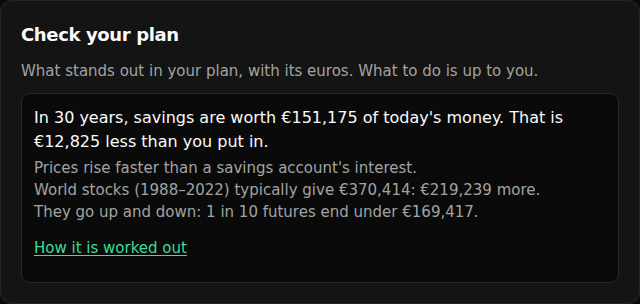
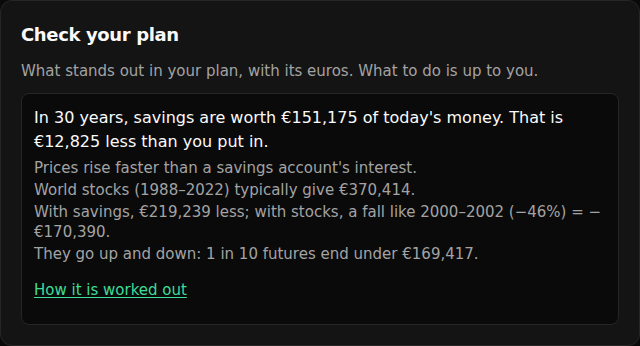
Check your plan: both sides of savings in one sentence
Against world stocks, savings give up euros, and stocks can fall: the
sentence says both, with world stocks' worst fall in the data
(2000–2002, −46% after rising prices, the deepest crash "Test my plan"
runs through) on the money they typically reach: "With savings,
€219,239 less; with stocks, a fall like 2000–2002 (−46%) = −€170,390."
The euros come from the percent and the figure as shown. How it works
and the research sheet say so; the wording test checks it in both
languages.

Claude-Session: https://claude.ai/code/session_01BcV4Bj22BrAC8vej9vmEnb

diff --git a/projects/wealth-lens/src/lib/plan-check.ts b/projects/wealth-lens/src/lib/plan-check.ts
@@ -9,7 +9,8 @@
  * - concentration: one stock over a fifth of the mix the plan invests in,
  *   or of My portfolio (index funds aside): its euros and its worst fall;
  * - savings: a savings account for 10 years or more: what it keeps in
- *   today's euros, against what was put in and against world stocks.
+ *   today's euros, against what was put in and against world stocks, with
+ *   both sides of them: what savings give up, and their worst fall.
  *
  * Numbers only; the words are in i18n/check-text.ts. It informs: it never
  * says what to buy, what to sell or what weights to choose (research/
@@ -19,6 +20,7 @@
 import type { AssetId } from "./assets";
 import type { Calculation, CalculatorPlan, GoalStatus } from "./calculator";
 import { futureValueWithContributions, holdingValue } from "./finance";
+import { CRISES, crisisResults } from "./history-test";
 import { resolveInvestment } from "./investment";
 import { INDEX_TRACKERS, instrumentForHolding, MARKET, type PricesFile } from "./market-data";
 import { CONCENTRATION_LIMIT, mixStock } from "./mix";
@@ -78,8 +80,19 @@ export interface SavingsCheck {
   /** What the savings account keeps after the years, in today's euros (the big number). */
   total: number;
   putIn: number;
-  /** World stocks with the same amounts: the typical result and the one 1 in 10 futures end below. */
-  world: { typical: number; bad: number; rate: number; period: [number, number] | null };
+  /**
+   * World stocks with the same amounts: the typical result, the one 1 in 10
+   * futures end below, and their worst fall in the data (its share, and its
+   * first and last calendar years).
+   */
+  world: { typical: number; bad: number; rate: number; period: [number, number] | null; fall: WorstFall | null };
+}
+
+export interface WorstFall {
+  /** 0.46 = −46%, after rising prices. */
+  drop: number;
+  from: number;
+  to: number;
 }
 
 export type PlanCheck = HorizonCheck | ConcentrationCheck | SavingsCheck;
@@ -166,6 +179,22 @@ export function concentrationCheck(calc: Calculation, holdings: readonly Holding
   };
 }
 
+let worldFall: WorstFall | null | undefined;
+
+/** World stocks' worst fall in the data: the deepest of the crashes "Test my plan" runs through (lib/history-test.ts). */
+export function worstWorldFall(): WorstFall | null {
+  if (worldFall !== undefined) return worldFall;
+  const results = Object.values(crisisResults({ parts: [{ asset: WORLD_REFERENCE, weight: 1 }], rebalance: true, savingsReturn: 0 }, { start: 1, monthly: 0 }, 1));
+  let worst: WorstFall | null = null;
+  for (const result of results) {
+    const crisis = result && CRISES.find((entry) => entry.id === result.id);
+    if (!result?.fall || !crisis || (worst && result.fall.drop <= worst.drop)) continue;
+    worst = { drop: result.fall.drop, from: crisis.year, to: crisis.year + crisis.years - 1 };
+  }
+  worldFall = worst;
+  return worst;
+}
+
 /** A savings account for many years: what it keeps, and what world stocks gave with the same amounts. */
 export function savingsCheck(calc: Calculation, plan: Pick<CalculatorPlan, "pricesOf" | "assumptions">): SavingsCheck | null {
   const { investment, scenario, result } = calc;
@@ -183,6 +212,7 @@ export function savingsCheck(calc: Calculation, plan: Pick<CalculatorPlan, "pric
       bad: bandsFor(world, amounts).p10[amounts.years],
       rate: world.realReturn,
       period: world.period,
+      fall: worstWorldFall(),
     },
   };
 }

diff --git a/projects/wealth-lens/src/lib/plan-check.test.ts b/projects/wealth-lens/src/lib/plan-check.test.ts
@@ -136,6 +136,9 @@ describe("savings for a long time", () => {
     expect(check?.world.typical).toBeCloseTo(futureValueWithContributions(10_000, 200, INDEXES.world.averageReturn, 30), 6);
     expect(check?.world.period).toEqual([1988, 2022]);
     expect(check!.world.bad).toBeLessThan(check!.world.typical);
+    // Their worst fall in the data, the one "Test my plan" shows: 2000–2002, −46% after rising prices.
+    expect(check?.world.fall).toMatchObject({ from: 2000, to: 2002 });
+    expect(check!.world.fall!.drop).toBeCloseTo(0.4618, 4);
   });
 
   it("says nothing under 10 years, or for anything but savings", () => {
@@ -200,10 +203,19 @@ describe("Check your plan", () => {
 
   it("subtracts the euros as they are shown, so the sums on the page add up", () => {
     // €370,414.60 and €151,175.40 show as €370,415 and €151,175: the gap shown is €219,240, not €219,239.
-    const check: PlanCheck = { id: "savings", years: 30, total: 151_175.4, putIn: 164_000, world: { typical: 370_414.6, bad: 169_417, rate: 0.045, period: [1988, 2022] } };
+    const check: PlanCheck = {
+      id: "savings",
+      years: 30,
+      total: 151_175.4,
+      putIn: 164_000,
+      world: { typical: 370_414.6, bad: 169_417, rate: 0.045, period: [1988, 2022], fall: { drop: 0.4618, from: 2000, to: 2002 } },
+    };
     const { lead, details } = checkWords(check, EN);
     expect(lead).toEqual(["In 30 years, savings are worth €151,175 of today's money.", "That is €12,825 less than you put in."]);
-    expect(details).toContain("World stocks (1988–2022) typically give €370,415: €219,240 more.");
+    expect(details).toContain("World stocks (1988–2022) typically give €370,415.");
+    // Both sides in one sentence: what savings give up, and the worst fall world stocks had, on the same plan's money (46% of €370,415).
+    expect(details).toContain("With savings, €219,240 less; with stocks, a fall like 2000–2002 (−46%) = −€170,391.");
+    expect(checkWords(check, ES).details).toContain("Con Ahorro, 219.240\u00a0€ menos; con acciones, caer como en 2000–2002 (\u221246\u00a0%) = \u2212170.391\u00a0€.");
   });
 
   it("gives the last 12 months as where its euros came from, so the percent can be checked by eye", () => {

diff --git a/projects/wealth-lens/src/i18n/messages/es.ts b/projects/wealth-lens/src/i18n/messages/es.ts
@@ -122,7 +122,7 @@ export const es: Messages = {
           "Bajo el resultado, hasta tres observaciones, solo cuando aplican. Cada una con sus euros. Dicen lo que hay, nunca qué hacer.",
           "Pocos años: los años de tu plan, o una meta, a menos de 5 años, con dinero que sube y baja. Cuenta cuántos de los 1000 futuros posibles acaban por debajo de lo que pones hasta entonces. Sale desde 1 de cada 10. [El método](research:wealth-lens/chequeo.md#horizonte-frente-a-riesgo).",
           "Una acción: una empresa con más de un quinto de tu mezcla o de Mi cartera, sin contar los fondos indexados. Da sus euros y su peor caída desde un máximo, sobre tu dinero. [El método](research:wealth-lens/chequeo.md#concentración).",
-          "Ahorro durante 10 años o más: lo que conserva la cuenta en dinero de hoy, frente a lo que pones. Y frente a las acciones del mundo, con las mismas cantidades. [El método](research:wealth-lens/chequeo.md#ahorro-a-largo-plazo).",
+          "Ahorro durante 10 años o más: lo que conserva la cuenta en dinero de hoy, frente a lo que pones. Y frente a las acciones del mundo, con las mismas cantidades: lo que se deja de ganar y su peor caída. [El método](research:wealth-lens/chequeo.md#ahorro-a-largo-plazo).",
         ],
       },
       {
@@ -1104,7 +1104,8 @@ export const es: Messages = {
       less: (amount: string) => `Son ${amount} menos de lo que pones.`,
       more: (amount: string) => `Son ${amount} más de lo que pones.`,
       why: "Los precios suben más que el interés del ahorro.",
-      world: (period: string, typical: string, more: string) => `Las acciones del mundo (${period}) suelen dar ${typical}: ${more} más.`,
+      world: (period: string, typical: string) => `Las acciones del mundo (${period}) suelen dar ${typical}.`,
+      bothSides: (less: string, years: string, fall: string, amount: string) => `Con Ahorro, ${less} menos; con acciones, caer como en ${years} (${fall}) = ${amount}.`,
       worldBad: (bad: string) => `Suben y bajan: 1 de cada 10 futuros acaba por debajo de ${bad}.`,
     },
   },

diff --git a/projects/wealth-lens/src/i18n/messages/en.ts b/projects/wealth-lens/src/i18n/messages/en.ts
@@ -126,7 +126,7 @@ export const en = {
           "Under the result, up to three observations, only when they apply. Each has its euros. They say what is, never what to do.",
           "Few years: your plan's years, or a goal, under 5 years away, and money that goes up and down. It counts how many of the 1,000 possible futures end below what you put in by then. It shows from 1 in 10. [The method](research:wealth-lens/chequeo.md#horizonte-frente-a-riesgo).",
           "One stock: one company over a fifth of your mix or of My portfolio, index funds aside. It gives its euros and its worst fall from a peak, on your money. [The method](research:wealth-lens/chequeo.md#concentración).",
-          "Savings for 10 years or more: what the account keeps in today's money, against what you put in. And against world stocks, with the same amounts. [The method](research:wealth-lens/chequeo.md#ahorro-a-largo-plazo).",
+          "Savings for 10 years or more: what the account keeps in today's money, against what you put in. And against world stocks, with the same amounts: what it gives up, and their worst fall. [The method](research:wealth-lens/chequeo.md#ahorro-a-largo-plazo).",
         ],
       },
       {
@@ -1136,7 +1136,8 @@ export const en = {
       less: (amount: string) => `That is ${amount} less than you put in.`,
       more: (amount: string) => `That is ${amount} more than you put in.`,
       why: "Prices rise faster than a savings account's interest.",
-      world: (period: string, typical: string, more: string) => `World stocks (${period}) typically give ${typical}: ${more} more.`,
+      world: (period: string, typical: string) => `World stocks (${period}) typically give ${typical}.`,
+      bothSides: (less: string, years: string, fall: string, amount: string) => `With savings, ${less} less; with stocks, a fall like ${years} (${fall}) = ${amount}.`,
       worldBad: (bad: string) => `They go up and down: 1 in 10 futures end under ${bad}.`,
     },
   },

diff --git a/projects/wealth-lens/src/i18n/check-text.ts b/projects/wealth-lens/src/i18n/check-text.ts
@@ -51,9 +51,13 @@ export function checkWords(check: PlanCheck, i18n: I18n): CheckWords {
       const [total, putIn, typical] = [check.total, check.putIn, check.world.typical].map(Math.round);
       const { world } = check;
       const lead = [t.keeps(m.units.years(check.years), f.eur(total)), total < putIn ? t.less(f.eur(putIn - total)) : t.more(f.eur(total - putIn))];
+      // Both sides in one sentence: what savings give up, and world stocks' worst fall on the money they typically reach.
+      const drop = world.fall ? Math.round(world.fall.drop * 100) / 100 : null;
+      const years = world.fall ? (world.fall.from === world.fall.to ? String(world.fall.from) : `${world.fall.from}–${world.fall.to}`) : "";
       const details = [
         ...(total < putIn ? [t.why] : []),
-        t.world(periodText(world), f.eur(typical), f.eur(typical - total)),
+        t.world(periodText(world), f.eur(typical)),
+        ...(world.fall && drop !== null && typical > total ? [t.bothSides(f.eur(typical - total), years, f.percent(-drop, { decimals: 0 }), f.eur(-typical * drop, { signed: true }))] : []),
         t.worldBad(f.eur(world.bad)),
       ];
       return { lead, details };

diff --git a/research/wealth-lens/chequeo.md b/research/wealth-lens/chequeo.md
@@ -99,7 +99,9 @@ y con su índice en su lugar sigue en *Para tener en cuenta*.
 **En palabras:** una cuenta de ahorro no sube ni baja, pero con los años
 los precios suben más que su interés. La app dice cuánto vale lo ahorrado
 en euros de hoy, frente a lo puesto y frente a lo que habrían dado las
-acciones del mundo con las mismas cantidades, con su caso malo.
+acciones del mundo con las mismas cantidades. Las dos caras van en la
+misma frase: lo que el ahorro deja de ganar y la peor caída de las
+acciones en los datos sobre ese dinero. Después, su caso malo.
 
 **Cuándo:** el plan invierte en Ahorro y mira 10 años o más.
 
@@ -108,12 +110,18 @@ menos la inflación de "Subida de precios en", ver
 [inflación](inflacion.md)); la referencia es el índice Mundo (MSCI World,
 1988–2022) con sus cifras de siempre y la misma inflación, con el mismo
 cálculo del número grande (típico) y su percentil 10 de los futuros
-simulados (malo).
+simulados (malo). La peor caída es la mayor de las crisis de *Probar mi
+plan* que cubren los datos del Mundo: 2000–2002, −46 % después de la
+subida de precios (de fin de 1999 a fin de 2002; 2008 fue −41 %). Se
+aplica a lo que dan típicamente al final, cuando más dinero hay: lo más
+que puede quitar una caída así. Como en todo el chequeo, los euros salen
+del porcentaje y de la cifra tal como se ven (46 % de 185.207 €).
 
 **Ejemplo:** 10.000 € y 200 € al mes durante 30 años: "En 30 años, el
 ahorro vale 75.587 € de hoy. Son 6413 € menos de lo que pones. Las
-acciones del mundo (1988–2022) suelen dar 185.207 €: 109.620 € más. Suben
-y bajan: 1 de cada 10 futuros acaba por debajo de 84.709 €."
+acciones del mundo (1988–2022) suelen dar 185.207 €. Con Ahorro, 109.620 €
+menos; con acciones, caer como en 2000–2002 (−46 %) = −85.195 €. Suben y
+bajan: 1 de cada 10 futuros acaba por debajo de 84.709 €."
 
 ## Cómo se redacta
 
@@ -137,7 +145,9 @@ test:
 - La peor caída guardada de una acción es una referencia de lo que puede
   caer, no un límite: puede caer más.
 - Las acciones del mundo de 1988–2022 son una referencia razonable para
-  comparar un ahorro a largo plazo.
+  comparar un ahorro a largo plazo. Su peor caída en esos datos
+  (2000–2002) es una referencia, no un límite: puede haber caídas
+  mayores, como la de 1929–1931 en el S&P 500.
 
 ## Fuentes
 
@@ -196,3 +206,7 @@ caída y cambio de 12 meses).
   hallazgo de concentración de *Mi cartera* (40 %) deja *Para tener en
   cuenta* y un solo umbral, el 20 %, vale para la mezcla y para *Mi
   cartera*.
+- 2026-10-07 (2): a petición de Marek, la observación del Ahorro dice en
+  una sola frase sus dos caras: lo que el ahorro deja de ganar frente a
+  las acciones del mundo y la peor caída de estas (2000–2002) sobre ese
+  dinero.
